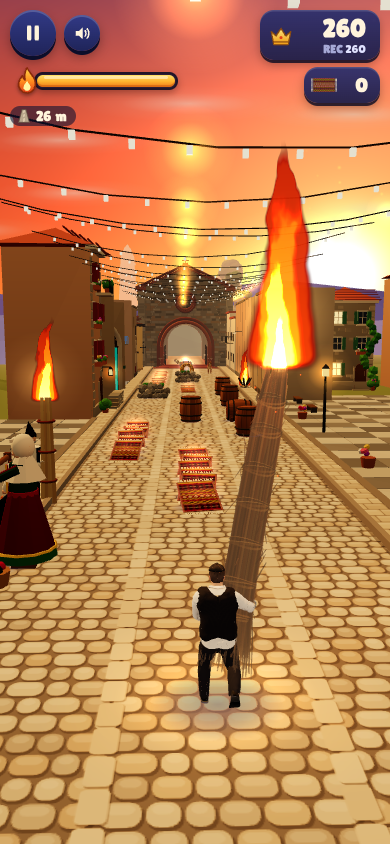
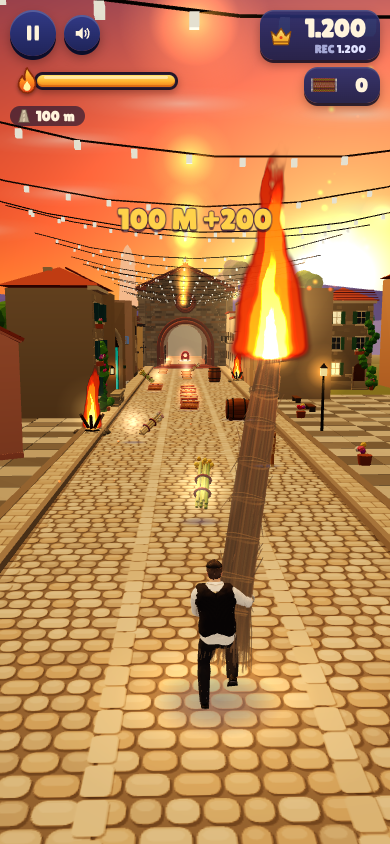
v5s26: vuoti laterali anche nel menu (piazzetta del campanile libera)

diff --git a/src/game/biomes/env.js b/src/game/biomes/env.js
@@ -351,10 +351,10 @@ export class Env {
       // vuoti (piazza della chiesa, piazzale del portale)
       const gaps = (i.b.gaps && i.b.gaps[sd.s < 0 ? 'left' : 'right']) || [];
       let skip = 0;
-      if (this.mode !== 'attract') for (const [a, z] of gaps) if (i.local >= a - 0.01 && i.local < z) skip = z - i.local;
+      for (const [a, z] of gaps) if (i.local >= a - 0.01 && i.local < z) skip = z - i.local;
       if (skip > 0) { sd.cur = W + skip; continue; }
       let lim = maxLen;
-      if (this.mode !== 'attract') for (const [a] of gaps) if (a > i.local) lim = Math.min(lim, a - i.local);
+      for (const [a] of gaps) if (a > i.local) lim = Math.min(lim, a - i.local);
       const p = this.sidePiece(sd, W, i, lim);
       if (!p) { sd.cur = W + Math.min(lim, 6); continue; }
       sd.list.push(p);
